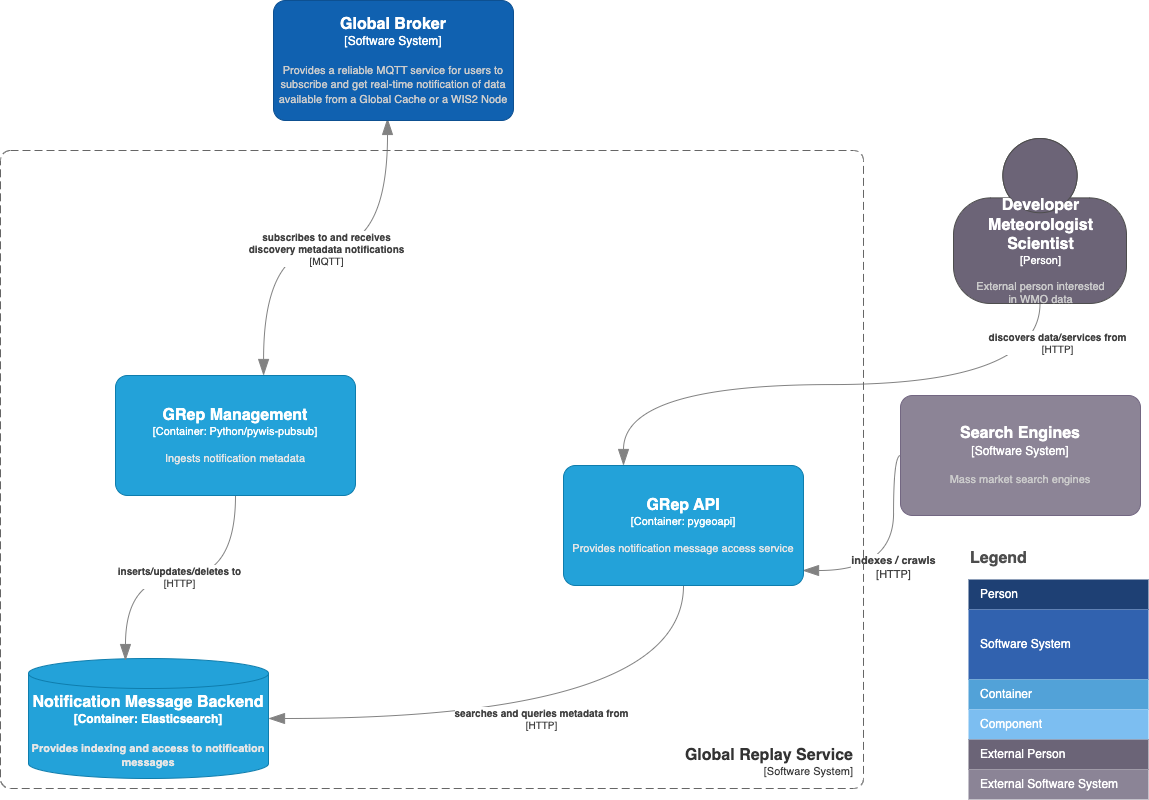
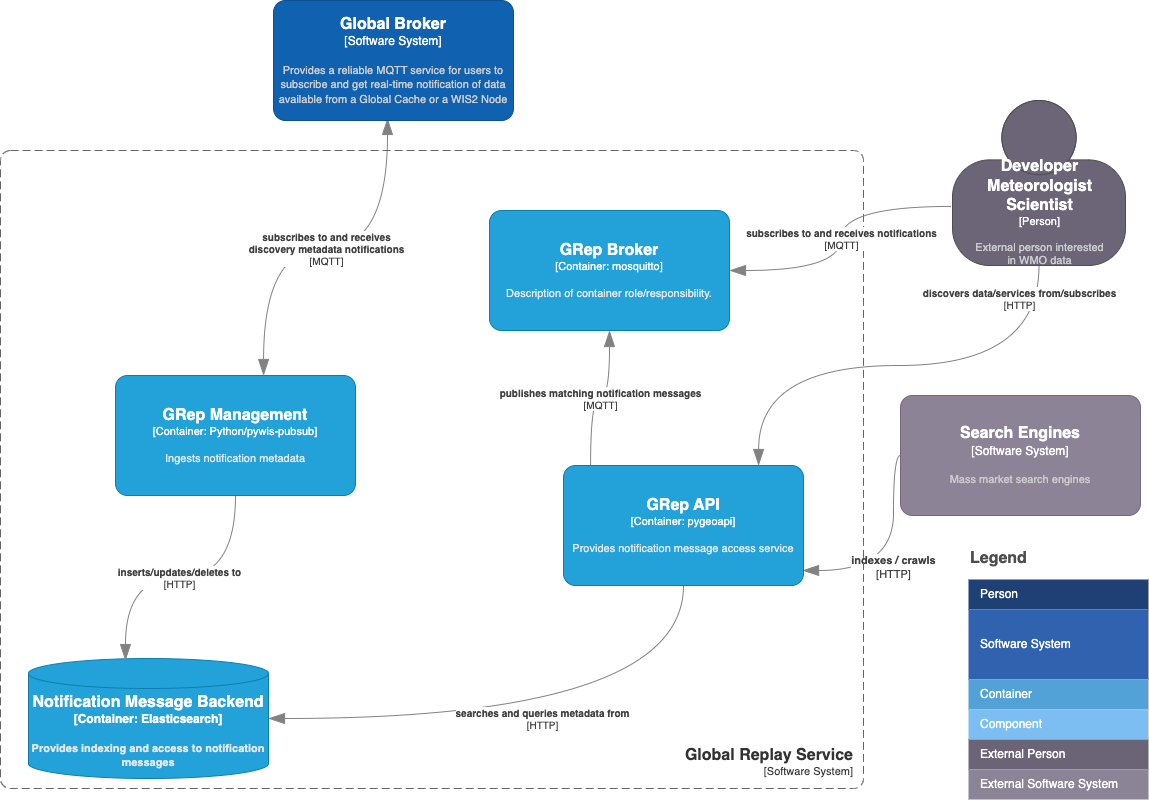
add OAProc process for user-defined subscriptions and notifications

diff --git a/wis2-grep-api/wis2_grep.py b/wis2-grep-api/wis2_grep.py
@@ -1,0 +1,219 @@
+# =================================================================
+#
+# Authors: Tom Kralidis <tomkralidis@gmail.com>
+#
+# Copyright (c) 2024 Tom Kralidis
+#
+# Permission is hereby granted, free of charge, to any person
+# obtaining a copy of this software and associated documentation
+# files (the "Software"), to deal in the Software without
+# restriction, including without limitation the rights to use,
+# copy, modify, merge, publish, distribute, sublicense, and/or sell
+# copies of the Software, and to permit persons to whom the
+# Software is furnished to do so, subject to the following
+# conditions:
+#
+# The above copyright notice and this permission notice shall be
+# included in all copies or substantial portions of the Software.
+#
+# THE SOFTWARE IS PROVIDED "AS IS", WITHOUT WARRANTY OF ANY KIND,
+# EXPRESS OR IMPLIED, INCLUDING BUT NOT LIMITED TO THE WARRANTIES
+# OF MERCHANTABILITY, FITNESS FOR A PARTICULAR PURPOSE AND
+# NONINFRINGEMENT. IN NO EVENT SHALL THE AUTHORS OR COPYRIGHT
+# HOLDERS BE LIABLE FOR ANY CLAIM, DAMAGES OR OTHER LIABILITY,
+# WHETHER IN AN ACTION OF CONTRACT, TORT OR OTHERWISE, ARISING
+# FROM, OUT OF OR IN CONNECTION WITH THE SOFTWARE OR THE USE OR
+# OTHER DEALINGS IN THE SOFTWARE.
+#
+# =================================================================
+
+import json
+import logging
+import os
+import requests
+
+from pywis_pubsub.mqtt import MQTTPubSubClient
+
+from pygeoapi.process.base import BaseProcessor, ProcessorExecuteError
+
+API_ENDPOINT = 'http://localhost/collections/wis2-notification-messages/items'
+
+BROKER_URL = os.environ['WIS2_GREP_BROKER_URL']
+
+MQTT_CLIENT = MQTTPubSubClient(BROKER_URL)
+
+LOGGER = logging.getLogger(__name__)
+
+#: Process metadata and description
+PROCESS_METADATA = {
+    'version': '0.1.0',
+    'id': 'wis2-grep-subscriber',
+    'title': {
+        'en': 'Global Replay subscriber',
+        'fr': 'Global Replay subscriber'
+    },
+    'description': {
+        'en': 'A process that allows for user-defined subscription to '
+              'replay WIS2 notification messages',
+        'fr': 'A process that allows for user-defined subscription to '
+              'replay WIS2 notification messages'
+    },
+    'jobControlOptions': ['sync-execute', 'async-execute'],
+    'keywords': ['wis2-grep', 'subscribe', 'notifications'],
+    'links': [{
+        'type': 'text/html',
+        'rel': 'canonical',
+        'title': 'wis2grep information',
+        'href': 'https://github.com/wmo-im/wis2-grep',
+        'hreflang': 'en-US'
+    }, {
+        'type': 'text/html',
+        'rel': 'related',
+        'title': 'WIS2 information',
+        'href': 'https://wmo-im.github.io/wis2-guide',
+        'hreflang': 'en-US'
+    }],
+    'inputs': {
+        'topic': {
+            'title': 'Topic',
+            'description': 'The topic to subscribe to',
+            'schema': {
+                'type': 'string'
+            },
+            'minOccurs': 1,
+            'maxOccurs': 1,
+            'keywords': ['topic', 'mqtt']
+        },
+        'datetime': {
+            'title': 'Datetime',
+            'description': 'Datetime (RFC3339) instant or envelope',
+            'schema': {
+                'type': 'string'
+            },
+            'minOccurs': 1,
+            'maxOccurs': 1,
+            'keywords': ['datetime', 'rfc3339']
+        },
+        'subscriber-id': {
+            'title': 'Subscriber id',
+            'description': 'identifier of subscribe, used in response topic',
+            'schema': {
+                'type': 'string'
+            },
+            'minOccurs': 1,
+            'maxOccurs': 1,
+            'keywords': ['subscriber']
+        }
+    },
+    'outputs': {
+        'subscription': {
+            'title': 'Subscription reponse',
+            'description': 'Response of subscription result',
+            'schema': {
+                'type': 'object',
+                'contentMediaType': 'application/json',
+                'properties': {
+                    'status': {
+                        'type': 'string',
+                        'description': 'Result of subscription request'
+                    },
+                    'subscription': {
+                        'type': 'object',
+                        'required': [
+                            'href',
+                            'rel'
+                        ],
+                        'properties': {
+                            'href': {
+                                'type': 'string',
+                                'example': 'http://data.example.com/buildings/123'  # noqa
+                            },
+                            'rel': {
+                                'type': 'string',
+                                'example': 'alternate'
+                            },
+                            'type': {
+                                'type': 'string',
+                                'example': 'application/geo+json'
+                            },
+                            'title': {
+                                'type': 'string',
+                                'example': 'Trierer Strasse 70, 53115 Bonn'
+                            },
+                            'channel': {
+                                'type': 'string',
+                                'description': 'topic to subscribe to for broker workflow'  # noqa
+                            }
+                        }
+                    }
+                }
+            }
+        }
+    },
+    'example': {
+        'inputs': {
+            'topic': 'origin/a/wis2/fr-meteofrance',
+            'datetime': '2024-06-10T03:00:00Z/2024-06-10T06:00:00Z',
+            'subscriber-id': 'foobar123'
+        }
+    }
+}
+
+
+class WIS2GrepSubscriberProcessor(BaseProcessor):
+    """wis2-grep Subscriber"""
+
+    def __init__(self, processor_def):
+        """
+        Initialize object
+
+        :param processor_def: provider definition
+
+        :returns: pygeoapi.process.wis2_grep.WIS2GrepSubscriberProcessor
+        """
+
+        super().__init__(processor_def, PROCESS_METADATA)
+        self.supports_outputs = True
+
+    def execute(self, data):
+        datetime_ = data.get('datetime')
+        topic = data.get('topic')
+        subscriber_id = data.get('subscriber-id')
+
+        if None in [datetime_, topic, subscriber_id]:
+            msg = 'datetime/topic/subscriber-id required'
+            raise ProcessorExecuteError(msg)
+
+        outputs = {}
+        pub_topic = f'replay/a/wis2/{subscriber_id}'
+
+        api_params = {
+            # 'datetime': datetime_
+            'topic': topic,
+        }
+
+        try:
+            r = requests.get(API_ENDPOINT, params=api_params).json()
+            r.raise_for_status()
+        except requests.exceptions.HTTPError as err:
+            LOGGER.error(err)
+            outputs['status'] = 'failed'
+            outputs['description'] = err
+            return 'application/json', outputs
+
+        outputs['status'] = 'successful'
+        outputs['subscription'] = {
+            'rel': 'items',
+            'type': 'application/geo+json',
+            'href': BROKER_URL,
+            'title': 'User-defined notifications',
+            'channel': pub_topic
+        }
+
+        for feature in r['features']:
+            MQTT_CLIENT.pub(pub_topic, json.dumps(feature))
+
+        return 'application/json', outputs
+
+    def __repr__(self):
+        return f'<WIS2GrepSubscriberProcessor> {self.name}'

diff --git a/README.md b/README.md
@@ -14,6 +14,8 @@ wis2-grep is a Reference Implementation of a WIS2 Global Replay Service.
   - publish to a WIS2 Global Replay Service (OGC API - Features) using one of the supported transaction backends:
     - [OGC API - Features - Part 4: Create, Replace, Update and Delete](https://docs.ogc.org/DRAFTS/20-002.html)
     - Elasticsearch direct (default)
+- user-defined subscriptions
+  - users can execute a process to subscribe to notification messages based on topic and/or datetime
 
 ## Installation
 
@@ -74,6 +76,7 @@ wis2-grep load /path/to/dir/of/wnm-files
 The Docker setup uses Docker and Docker Compose to manage the following services:
 
 - **wis2-grep-api**: API powered by [pygeoapi](https://pygeoapi.io)
+- **wis2-gdc-broker**: MQTT broker
 - **wis2-grep-management**: management service to publish notification messages published from a WIS2 Global Broker instance
   - the default Global Broker connection is to NOAA.  This can be modified in `wis2-grep.env` to point to a different Global Broker
 - **wis2-grep-backend**: API search engine backend (default Elasticsearch)
